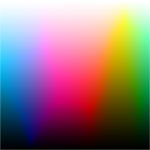
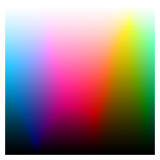
Improved Color Picker control and added notification of new version

Changed region(s): [[0.0, 0.0267, 1.0, 1.0]]

diff --git a/YAKD/Controls/ColorPicker/ColorPicker.xaml b/YAKD/Controls/ColorPicker/ColorPicker.xaml
@@ -3,34 +3,29 @@
              xmlns="http://schemas.microsoft.com/winfx/2006/xaml/presentation"
              xmlns:x="http://schemas.microsoft.com/winfx/2006/xaml">
     <StackPanel Width="170">
-        <Grid x:Name="CanvasPanel" Height="170" Width="170" MouseMove="CanvasPanel_MouseMove">
-            <Image x:Name="ColorImage" Width="150" Height="150" Source="/Images/Controls/ColorPicker/ColorSwatchSquare.png" />
+        <Grid x:Name="CanvasPanel" MouseMove="CanvasPanel_MouseMove" Margin="5,5,5,10">
+            <Image x:Name="ColorImage" Width="160" Height="160" Source="/Images/Controls/ColorPicker/ColorSwatchSquare.png" />
             <Canvas x:Name="CanvasImage"
-                    Width="150"
-                    Height="150" 
+                    Width="160"
+                    Height="160" 
                     Background="Transparent"
                     MouseDown="CanvasImage_MouseDown"
                     MouseUp="CanvasImage_MouseUp">
-                <Ellipse x:Name="EllipsePixel"
-                         Width="10"
-                         Height="10"
-                         Stroke="Black"
-                         Fill="White"
-                         Canvas.Left="-5"
-                         Canvas.Top="-5" />
+                <Ellipse x:Name="EllipsePixel" Width="11" Height="11" Stroke="#424242" Fill="White" />
             </Canvas>
         </Grid>
         <Rectangle x:Name="ColorRectangle"
                    Height="19"
-                   Margin="5,2,5,0"
+                   Margin="5,0,5,5"
                    Stroke="#FFACACAC"
                    Fill="White" />
         <TextBox x:Name="ColorName"
                  Text="#FFFFFF"
-                 Margin="5,5,5,7"
                  HorizontalContentAlignment="Center"
                  VerticalContentAlignment="Center"
                  MaxLength="7"
-                 TextChanged="ColorName_TextChanged" />
+                 TextChanged="ColorName_TextChanged"
+                 Margin="5,0,5,5"
+                 Height="19" />
     </StackPanel>
 </UserControl>

diff --git a/YAKD/ColorPickerWindow.xaml b/YAKD/ColorPickerWindow.xaml
@@ -6,7 +6,7 @@
         xmlns:colorPicker="clr-namespace:YAKD.Controls.ColorPicker"
         mc:Ignorable="d"
         Title="Choose a color"
-        Height="301"
+        Height="305"
         Width="196"
         FontFamily="{StaticResource RobotoRegular}"
         ResizeMode="NoResize"
@@ -65,8 +65,6 @@
                                  Grid.Column="0"
                                  Grid.ColumnSpan="2"
                                  Grid.Row="0"
-                                 Width="170"
-                                 Height="221"
                                  TabIndex="0" />
         <Button x:Name="OkButton"
                 Grid.Row="1"

diff --git a/YAKD/MainWindow.xaml b/YAKD/MainWindow.xaml
@@ -487,7 +487,8 @@
                        Text="YAKD v.1.2 by Jagailo - "
                        VerticalAlignment="Top"
                        FontSize="11" />
-            <TextBlock HorizontalAlignment="Left"
+            <TextBlock x:Name="AboutTextBlock"
+                       HorizontalAlignment="Left"
                        Text="about"
                        VerticalAlignment="Top"
                        FontSize="11"

diff --git a/YAKD/Controls/ColorPicker/ColorPicker.xaml.cs b/YAKD/Controls/ColorPicker/ColorPicker.xaml.cs
@@ -42,8 +42,8 @@ namespace YAKD.Controls.ColorPicker
         {
             InitializeComponent();
 
-            _ellipseHalfWidth = EllipsePixel.Width / 2.0;
-            _ellipseHalfHeight = EllipsePixel.Height / 2.0;
+            _ellipseHalfWidth = Math.Floor(EllipsePixel.Width / 2);
+            _ellipseHalfHeight = Math.Floor(EllipsePixel.Height / 2);
 
             SetColor(Colors.White);
             _isChangingByUser = true;
@@ -60,7 +60,7 @@ namespace YAKD.Controls.ColorPicker
         public void SetColor(Color color)
         {
             SelectedColor = color;
-            MoveEllipse(CanvasImage.Width / 2.0, CanvasImage.Height / 2.0, color);
+            MoveEllipse(CanvasImage.Width / 2, CanvasImage.Height / 2, color);
             UpdateTextBox();
             ColorRectangle.Fill = new SolidColorBrush(color);
         }
@@ -76,11 +76,7 @@ namespace YAKD.Controls.ColorPicker
                 var x = Mouse.GetPosition(CanvasPanel).X;
                 var y = Mouse.GetPosition(CanvasPanel).Y;
 
-                if (x < _ellipseHalfWidth || x > CanvasPanel.Width - _ellipseHalfWidth || y < _ellipseHalfHeight || y > CanvasPanel.Height - _ellipseHalfHeight)
-                {
-                    _isMouseDown = false;
-                }
-                else if (x < CanvasImage.Width && x >= 0 && y < CanvasImage.Height && y >= 0)
+                if (x >= _ellipseHalfWidth && x <= CanvasImage.Width - _ellipseHalfWidth - 1 && y >= _ellipseHalfHeight && y <= CanvasImage.Height - _ellipseHalfHeight - 1)
                 {
                     try
                     {
@@ -102,6 +98,10 @@ namespace YAKD.Controls.ColorPicker
                         CanvasImage.InvalidateVisual();
                     }
                 }
+                else
+                {
+                    _isMouseDown = false;
+                }
             }
         }
 
@@ -120,7 +120,7 @@ namespace YAKD.Controls.ColorPicker
             if (_isChangingByUser && Regex.IsMatch(ColorName.Text, @"^#(?:[0-9a-fA-F]{3}){1,2}$"))
             {
                 SelectedColor = (Color)ColorConverter.ConvertFromString(ColorName.Text);
-                MoveEllipse(CanvasImage.Width / 2.0, CanvasImage.Height / 2.0, SelectedColor);
+                MoveEllipse(CanvasImage.Width / 2, CanvasImage.Height / 2, SelectedColor);
                 ColorRectangle.Fill = new SolidColorBrush(SelectedColor);
             }
         }

diff --git a/YAKD/MainWindow.xaml.cs b/YAKD/MainWindow.xaml.cs
@@ -1,9 +1,13 @@
-using System;
+using Newtonsoft.Json;
+using System;
 using System.Collections.Generic;
 using System.ComponentModel;
 using System.Diagnostics;
 using System.Globalization;
 using System.Linq;
+using System.Net;
+using System.Reflection;
+using System.Threading.Tasks;
 using System.Windows;
 using System.Windows.Controls;
 using System.Windows.Input;
@@ -49,6 +53,7 @@ namespace YAKD
         /// </summary>
         public MainWindow()
         {
+            CheckForUpdates();
             _settings = new KeyDisplayerSettings();
             _isSliderEnabled = true;
             _isRtssEnabled = false;
@@ -620,6 +625,27 @@ namespace YAKD
                     RightAlignmentButton.Tag = "0";
                     break;
             }
+        }
+
+        private async void CheckForUpdates()
+        {
+            await Task.Run(() =>
+            {
+                try
+                {
+                    var version = Convert.ToInt16(Assembly.GetExecutingAssembly().GetName().Version.ToString().Replace(".", ""));
+                    var json = new WebClient().DownloadString("https://raw.githubusercontent.com/Jagailo/YetAnotherKeyDisplayer/master/version.json");
+                    var cloudVersion = JsonConvert.DeserializeObject<VersionModel>(json);
+                    if (version < cloudVersion.Version)
+                    {
+                        Application.Current.Dispatcher.Invoke(() => { AboutTextBlock.Text = "a new version is available"; });
+                    }
+                }
+                catch (Exception)
+                {
+                    // Ignored
+                }
+            });
         }
 
         #endregion

diff --git a/YAKD/Models/VersionModel.cs b/YAKD/Models/VersionModel.cs
@@ -1,0 +1,14 @@
+namespace YAKD.Models
+{
+    /// <summary>
+    /// Application version model
+    /// </summary>
+    public class VersionModel
+    {
+        #region Properties
+
+        public short Version { get; set; }
+
+        #endregion
+    }
+}
